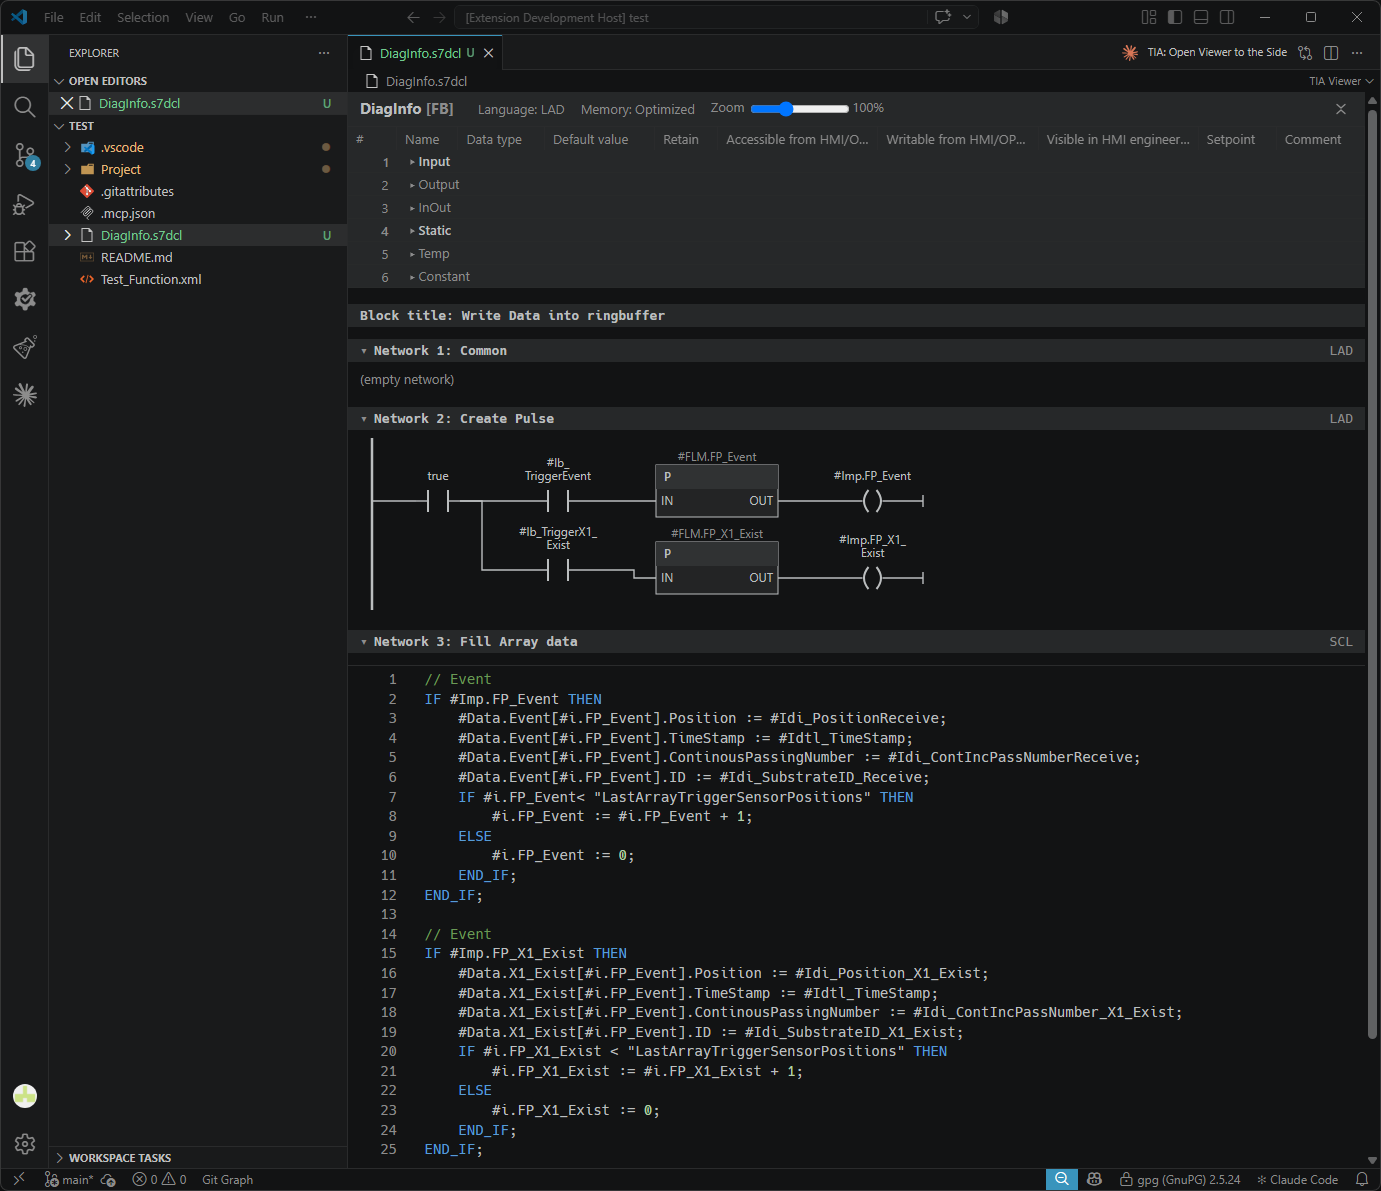
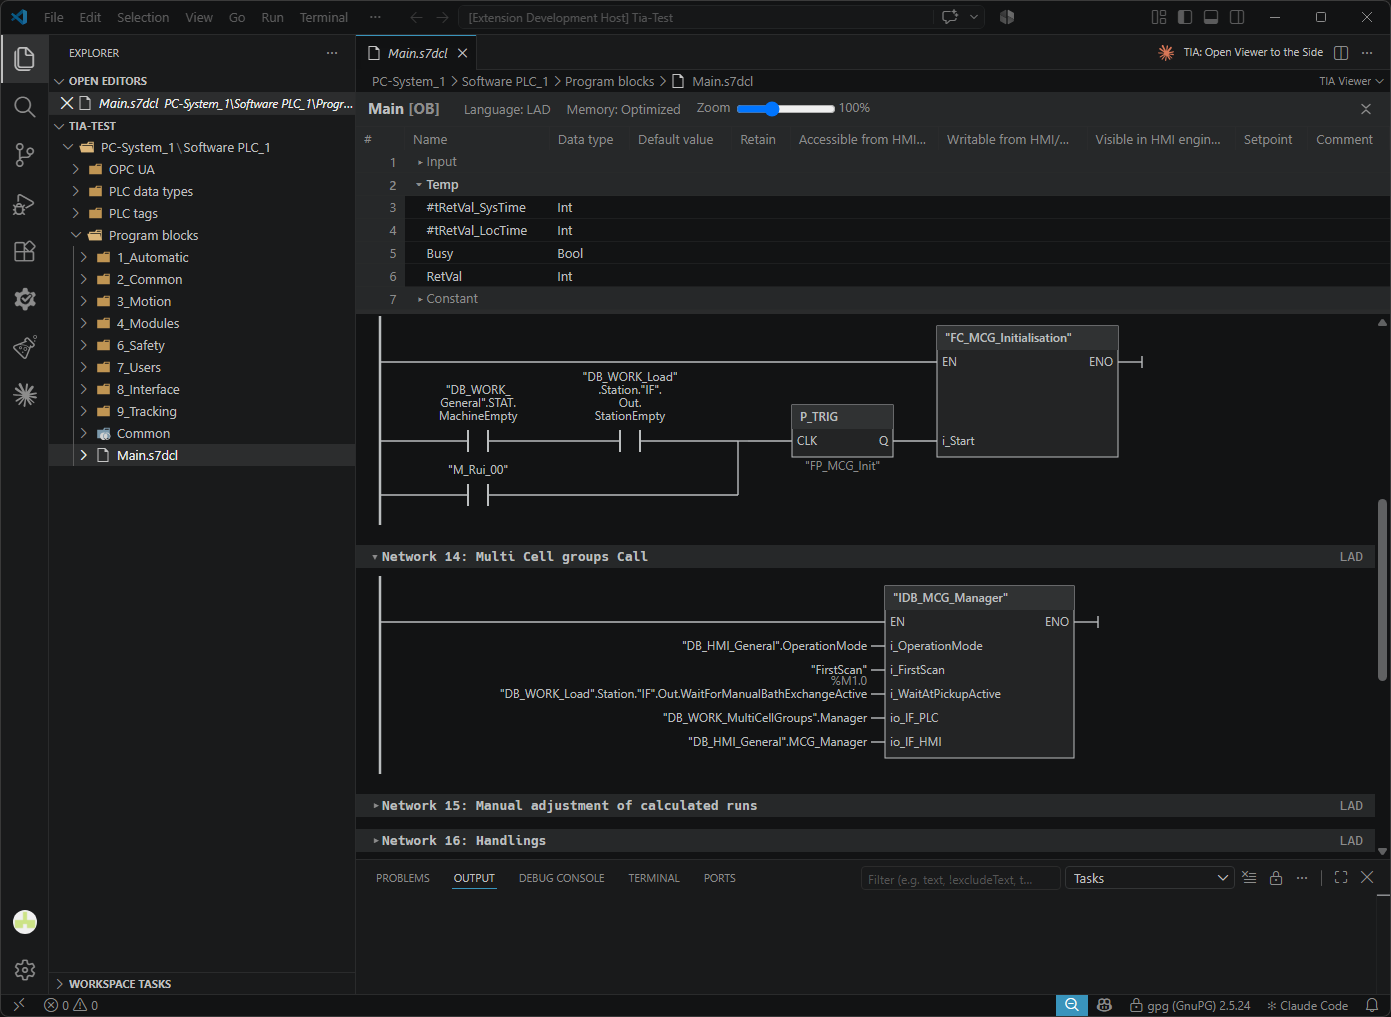
screenshots

diff --git a/README.md b/README.md
@@ -1,8 +1,13 @@
 # TIA Portal Language Support
 
-Syntax highlighting for text sources exported from Siemens TIA Portal (STEP 7).
+Syntax highlighting for exported Siemens TIA Portal (Step 7) files.
 
-![Screenshot of TIA Portal Language Support](https://github.com/heilingbrunner/vscode-tiaportal-language-support/blob/main/assets/screenshot-1.png?raw=true)
+
+![TIA viewer](https://github.com/heilingbrunner/vscode-tiaportal-language-support/blob/main/assets/screenshot-1.png?raw=true)
+
+![Search in project](https://github.com/heilingbrunner/vscode-tiaportal-language-support/blob/main/assets/screenshot-2.png?raw=true)
+
+![Git diff view](https://github.com/heilingbrunner/vscode-tiaportal-language-support/blob/main/assets/screenshot-3.png?raw=true)
 
 ## Features
 
@@ -18,7 +23,7 @@ Syntax highlighting for text sources exported from Siemens TIA Portal (STEP 7).
 - **Interface table** with expandable structs, arrays and UDT members.
 - **Collapsible networks** (click a network heading, or use the collapse/expand all button in the header, which also folds the interface sections) and a culture setting for titles and comments.
 - **git diff**: both versions side by side, red/green marks, synchronized scrolling.
-- **Search in project**: a TIA-style search over all exported sources of a folder (right-click a folder in the Explorer).
+- **Search in project**: a TIA-style search over all exported sources of a folder (right-click on software folder in the explorer).
 
 ## Languages
 
